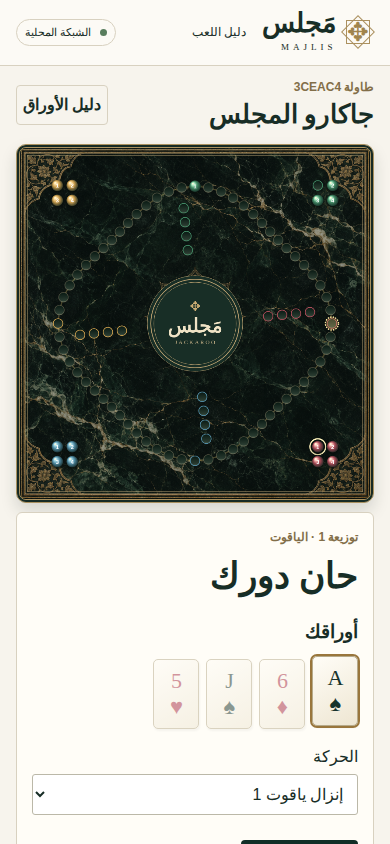
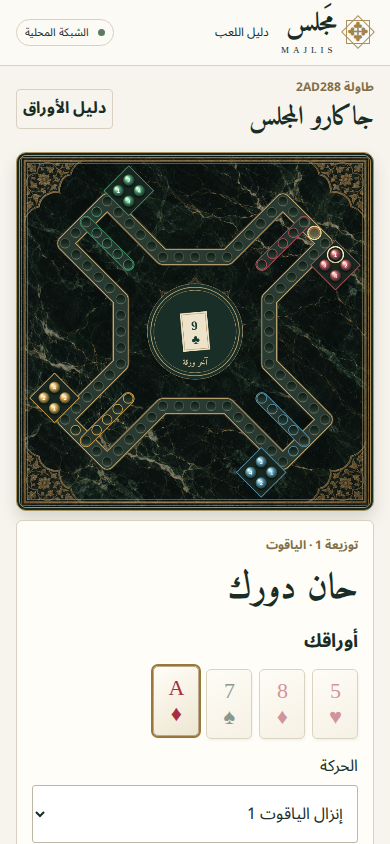
توثيق اختبار الرباعي والسداسي وإرفاق معاينات اللعب ورمز الدعوة

diff --git a/docs/PROGRESS.md b/docs/PROGRESS.md
@@ -29,7 +29,7 @@
 
 يعرض الدليل داخل التطبيق «قواعد مجلس» للأربعة. اختيرت نسخة تكون فيها الملكة ١٢، والملك إنزالًا أو ١٣، والعشرة حركة عادية. لا يحرق الملك الأحجار في طريقه. تحدد هذه الخيارات سلوك الأوراق التي تختلف بين المجالس. للاستئناس بفروق النسخ، راجع [دليل جاكارو وورلد](https://www.jackarooworld.com/pdfs/Jackaroo-World-Manual.pdf) و[قواعد جواكر](https://blog.jawaker.com/en/jackaroo-rules-en/).
 
-## سجل التحقق • ٢٣ نوفمبر ٢٠٢٦
+## سجل التحقق للنسخة الأولى • ٢٣ نوفمبر ٢٠٢٦
 
 | الفحص | النتيجة |
 |---|---|
@@ -39,7 +39,7 @@
 | عرض الهاتف | اجتازت صفحتا اللعب والصالة اختبار العرض 390 بكسل دون تمرير أفقي. حُفظت لقطات فعلية. |
 | حزمة أندرويد | نجح تجميع التطبيق وتوقيعه بمفتاح تطوير والتحقق منه باستخدام apksigner. الحد الأدنى للنظام Android 8. |
 | اختبار أربعة هواتف | بقي اختبار ميداني يشمل نقطة اتصال حقيقية، واختيار عنوانها، وسلوك الهاتف عند قفل الشاشة. |
-| المستودع الخاص | سُجّلت المراحل محليًا على main. تعذّر إنشاء المستودع البعيد من أدوات الجلسة. لم تُرفع ملفات المشروع إلى GitHub. أضيف سير اختبار تلقائي لكل دفع وطلب دمج عند رفع المستودع. |
+| المستودع الخاص | بدأ السجل محليًا، ثم نُشرت النسخة الأساسية كاملة في المستودع الخاص. [التحديث الأساسي](https://github.com/ameenalqershi/majlis-royal/commit/6f047f7ba20f8bc25eaabbf55fdfeeedf79d340a). |
 
 ## متابعة التطوير
 
@@ -48,3 +48,17 @@
 ## تحديث الطاولات الرباعية والسداسية
 
 نُشرت النسخة الأساسية على main في المستودع الخاص. أضيف اختيار السعة إلى خادم الغرف، وتعميم المحرك على ١٨ خانة لكل قطاع و٤ أحجار لكل لاعب. للطاولة السداسية ثلاث شراكات متقابلة. تستخدم رُزمتين وتُوزَّع ٤ ثم ٤ ثم ٤ ثم ٥ لكل لاعب قبل إعادة الخلط. يجري التحقق من سعة الغرفة قبل البدء ومن فوز كل شراكة مستقلة.
+
+
+## تصميم الإصدار 0.2
+
+دُرست صور المنتج العلوية للوح رباعي ثابت ولوح سداسي معياري. يمتد المسار الرباعي على شكل حرف X، بأربعة أذرع قطرية تتوسطها حارات الأمان. يتكون السداسي من ستة قطاعات مستقيمة بزوايا، وحارات أمان داخلية منعطفة. اختيرت ١٨ خانة لكل قطاع في قواعد مجلس. اللوحان يعرضان نقطة الإنزال والبيت وبئر الأوراق، ويتبع موضع كل حجر والوجهة المقترحة فهرس الخانة الفعلي في المحرك. [مرجع اللوح الرباعي](https://www.jackarooeg.com/en/products/jackaroo-4-players) · [مرجع اللوح السداسي](https://www.jackarooeg.com/en/products/jackaroo-flex) · [مرجع مسار ٧٢ خانة](https://jakozgaming.com/games/jakaro)
+
+استُخدم خط Amiri Bold للعناوين وخط Noto Sans Arabic للنصوص والأزرار. تُحمَّل الخطوط من جهاز المضيف، مع تراخيصها داخل الحزمة. ينتج المضيف رمز الدعوة محليًا، ويعيد رسمه عند تبديل عنوان الشبكة. يحتوي الرمز عنوان المضيف ورمز الغرفة فقط. يتاح فك الرمز بكاميرا النظام، كما يوفر التطبيق المسح المباشر أو الاختيار من الصور. يحتاج المسح الحي داخل المتصفح إلى سياق يدعم الكاميرا، ويظل خيار الصورة متاحًا عبر HTTP المحلي.
+
+## تحقق الإصدار 0.2
+
+- اجتازت ثماني مجموعات اختبارات للمحرك والغرف. شملت المحاكاة ثماني مباريات مكتملة موزعة بالتساوي على الحجمين، واختُبر فوز الشراكة الثالثة في السداسي ومنع البداية المبكرة والمقعد السابع.
+- انضمت أربع جلسات Chromium منفصلة إلى طاولة رباعية وست جلسات إلى طاولة سداسية على عنوان شبكة خاص. فُكّت صورة QR المنتجة وقورن عنوانها بحقل الدعوة. استخدم الضيف الأول مدخل «اختيار صورة» في كلتا الطاولتين، وانتقل إلى نموذج الغرفة وانضم باسمه.
+- تحقّق الاختبار من تحميل الخطّين، وبدء اللعب، وانتقال الدور وعودة اللاعب إلى مقعده بعد التحديث، ومن اتساع واجهة الهاتف دون تمرير أفقي. [الرباعي](previews/table.png) · [السداسي](previews/table-six.png) · [السداسي على الهاتف](previews/mobile-six.png) · [دعوة الطاولة](previews/invite.png)
+- بُني ملف APK بالإصدار 0.2 ورمز الإصدار 2، وتحقق apksigner من توقيعه. بقي اختبار كاميرا فعلية وصلاحيتها ونقطة اتصال بين هواتف مستقلة. [حزمة التثبيت](../downloads/majlis-0.2.apk)

diff --git a/README.md b/README.md
@@ -1,6 +1,6 @@
 # مجلس | Majlis
 
-صالة ألعاب عربية للشبكات المحلية. اللعبة الأولى جاكارو لأربعة لاعبين يجلس الشريكان فيها متقابلين. يستضيف هاتف أندرويد أو حاسوب الطاولة وتفتح الأجهزة الأخرى رابط الدعوة في متصفحاتها على الشبكة نفسها.
+صالة ألعاب عربية للشبكات المحلية. اللعبة الأولى جاكارو لأربعة أو ستة لاعبين يجلس الشريكان فيها متقابلين. يستضيف هاتف أندرويد أو حاسوب الطاولة وتفتح الأجهزة الأخرى رابط الدعوة في متصفحاتها على الشبكة نفسها.
 
 ## تشغيل المضيف على الحاسوب
 
@@ -15,9 +15,9 @@
 
 ## اللعب من الهاتف
 
-1. ثبّت حزمة أندرويد التجريبية على هاتف المضيف. فعّل نقطة اتصال الهاتف ووصل الأجهزة الثلاثة الأخرى بها، أو صِل الأجهزة الأربعة بشبكة واي فاي واحدة.
-2. افتح **مجلس** على المضيف واختر **إنشاء طاولة**. اكتب اسمك وانسخ رابط الدعوة. إذا ظهرت عدة عناوين، اختر عنوان شبكة اللاعبين. يمكن أيضًا فتح عنوان المضيف في المتصفح وإدخال رمز الطاولة.
-3. يفتح الضيوف الرابط في متصفحاتهم ويكتب كلّ منهم اسمه. بعد اكتمال المقاعد الأربعة يضغط المضيف **بدء المباراة**.
+1. ثبّت [حزمة أندرويد التجريبية 0.2](downloads/majlis-0.2.apk) على هاتف المضيف. فعّل نقطة اتصال الهاتف ووصل أجهزة الضيوف بها، أو صِل جميع الأجهزة بشبكة واي فاي واحدة.
+2. افتح **مجلس** على المضيف واختر **إنشاء طاولة**. اكتب اسمك واختر أربعة مقاعد أو ستة. يظهر رمز QR ورابط دعوة الطاولة. إذا ظهرت عدة عناوين، اختر عنوان شبكة اللاعبين. يمكن أيضًا فتح عنوان المضيف في المتصفح وإدخال رمز الطاولة.
+3. يمسح كل ضيف الرمز بكاميرا هاتفه ويفتح رابط الطاولة ويكتب اسمه. يتيح زر **مسح رمز الدعوة** في شاشة الانضمام استخدام كاميرا التطبيق أو اختيار صورة الرمز. بعد اكتمال المقاعد يضغط المضيف **بدء المباراة**.
 4. اختر ورقة ثم الحركة. تضيء الأحجار المعنية ويُحدّد موضع الوصول بحلقة ذهبية متقطعة. يمكنك لمس الحجر لتحديد حركة تخصّه، ثم الضغط على **تأكيد الحركة**.
 
 أبقِ التطبيق مفتوحًا على المضيف. تحفظ نافذة اللاعب هويّة المقعد عند تحديث الصفحة. تبقى حالة المباراة في ذاكرة المضيف وتنتهي بإغلاقه. يحتاج التشغيل إلى متصفح حديث أو Android System WebView محدّث. عند استخدام شبكة ضيوف تعزل الأجهزة عن بعضها، استخدم نقطة اتصال تسمح باتصال الأجهزة بالمضيف.
@@ -27,4 +27,4 @@
 - بناء APK تجريبي موقّع محليًا: شغّل `./scripts/build-android.sh` مع JDK وAndroid SDK Platform 35 وBuild Tools 35.0.0. يمكن تحديد مجلد SDK عبر `ANDROID_HOME`. الناتج `build/android/majlis.apk`. لا تُرفع مفاتيح التوقيع إلى المستودع.
 - اختبارات المحرك والغرف: `node test/game.test.mjs`.
 - اختبار الواجهة: شغّل المضيف، ثم نفّذ `CHROME=/path/to/chromium node scripts/check-ui.mjs`. تكتب الأداة لقطات العرض في `build/previews`.
-- [لقطة الصالة](docs/previews/lounge.png) · [اللوح على الهاتف](docs/previews/mobile-game.png)
+- [لقطة الصالة](docs/previews/lounge.png) · [اللوح الرباعي](docs/previews/table.png) · [اللوح السداسي](docs/previews/table-six.png) · [دعوة QR](docs/previews/invite.png)
